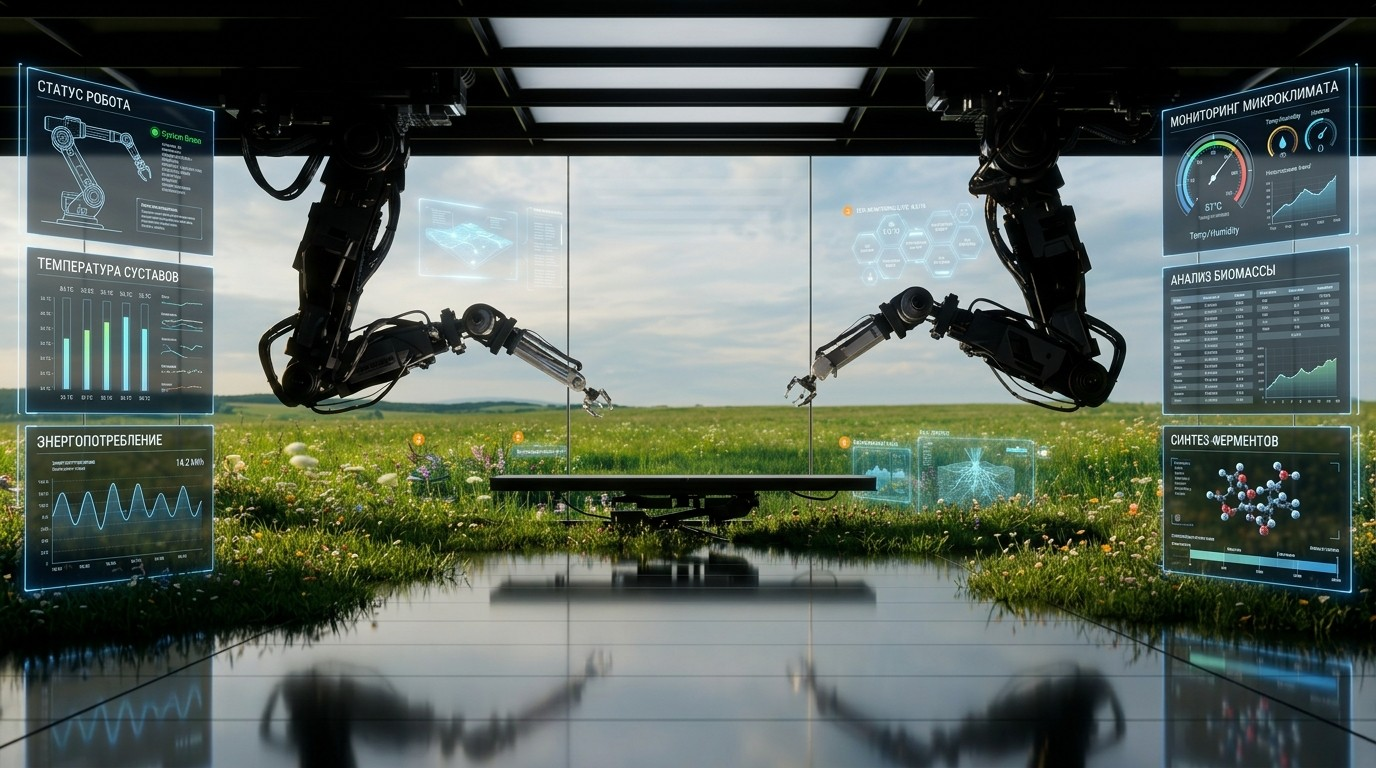
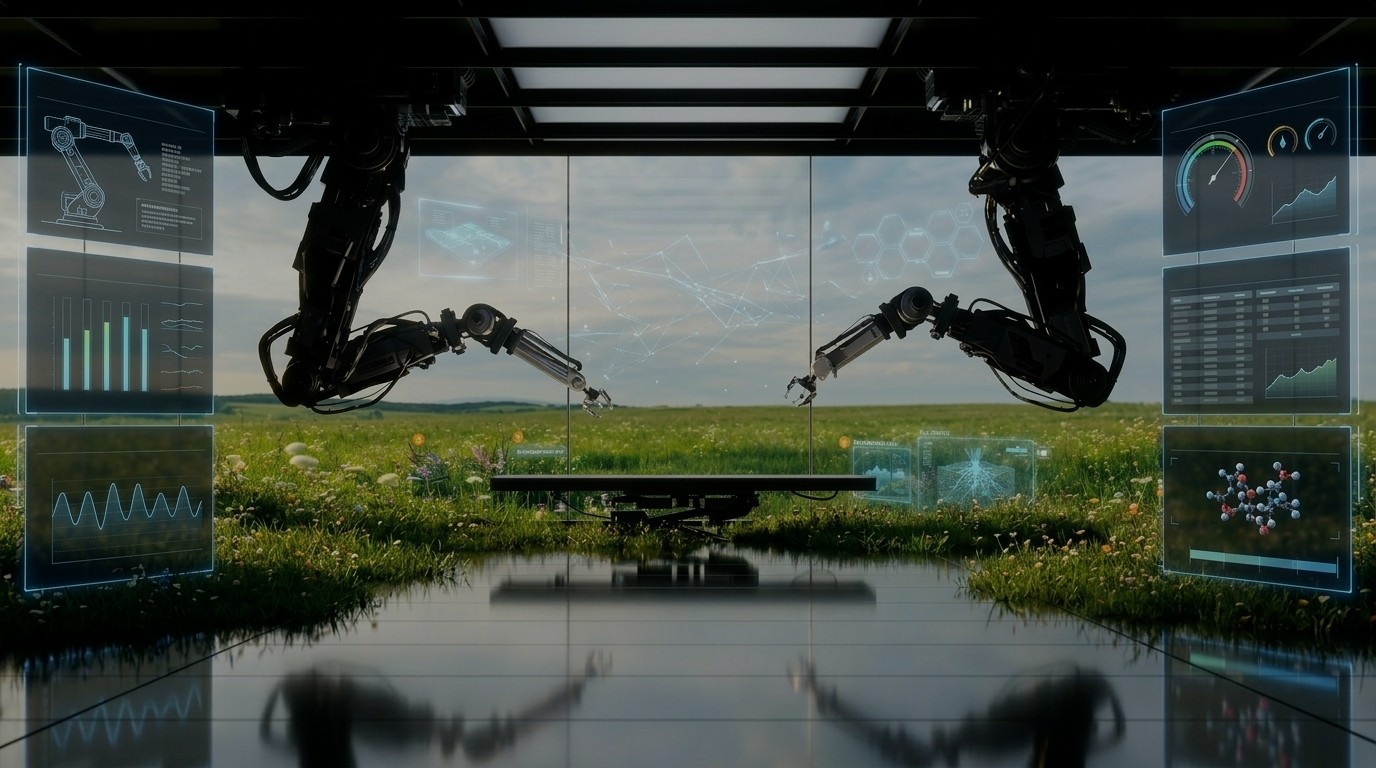
feat: new robot-arm bg + floating 3D sphere next to header
- diagram-bg.jpg: cleaner robot arms scene (no text overlays)
- sphere-3d.png: glass sphere with mechanical interior
- Header: flex row — text left, sphere right (220px, float + glow animation)
- globals.css: sphere-float (6s) and sphere-glow (3s) keyframes

diff --git a/components/sections/Examples.tsx b/components/sections/Examples.tsx
@@ -479,13 +479,40 @@ export default function Examples() {
       <div className="max-w-6xl mx-auto">
 
         {/* HEADER */}
-        <motion.div className="mb-10"
-          initial={{ opacity: 0, y: 20 }} whileInView={{ opacity: 1, y: 0 }}
-          viewport={{ once: true, amount: 0.3 }} transition={{ duration: 0.6 }}>
-          <p className="eyebrow mb-3" style={{ color: C.crimson }}>Архитектура системы</p>
-          <h2 className="h2 mb-3" style={{ color: C.espresso }}>Как это работает</h2>
-          <p className="font-inter font-light text-lg" style={{ color: C.taupe }}>Снаружи просто. Внутри — инженерия.</p>
-        </motion.div>
+        <div className="mb-10 flex items-center justify-between gap-6">
+          <motion.div
+            initial={{ opacity: 0, y: 20 }} whileInView={{ opacity: 1, y: 0 }}
+            viewport={{ once: true, amount: 0.3 }} transition={{ duration: 0.6 }}>
+            <p className="eyebrow mb-3" style={{ color: C.crimson }}>Архитектура системы</p>
+            <h2 className="h2 mb-3" style={{ color: C.espresso }}>Как это работает</h2>
+            <p className="font-inter font-light text-lg" style={{ color: C.taupe }}>Снаружи просто. Внутри — инженерия.</p>
+          </motion.div>
+
+          {/* Floating 3D sphere */}
+          <motion.div
+            className="hidden md:block flex-shrink-0"
+            initial={{ opacity: 0, y: 30, scale: 0.85 }}
+            whileInView={{ opacity: 1, y: 0, scale: 1 }}
+            viewport={{ once: true, amount: 0.3 }}
+            transition={{ duration: 0.9, ease: [0.22, 1, 0.36, 1] }}
+            style={{ width: 220, height: 220, position: "relative" }}>
+            {/* Glow halo */}
+            <div className="sphere-glow" style={{
+              position: "absolute", inset: "15%",
+              background: "radial-gradient(circle, rgba(196,18,48,0.22) 0%, rgba(210,182,138,0.1) 55%, transparent 80%)",
+              borderRadius: "50%",
+              filter: "blur(18px)",
+            }} />
+            <div className="sphere-float" style={{ width: "100%", height: "100%" }}>
+              <img
+                src="/images/sphere-3d.png"
+                alt="AI система — 3D визуализация"
+                style={{ width: "100%", height: "100%", objectFit: "contain",
+                  filter: "drop-shadow(0 12px 40px rgba(196,18,48,0.18)) drop-shadow(0 2px 8px rgba(0,0,0,0.12))" }}
+              />
+            </div>
+          </motion.div>
+        </div>
 
         {/* LEVEL SWITCHER */}
         <div className="flex gap-2 mb-8">

diff --git a/app/globals.css b/app/globals.css
@@ -20,6 +20,19 @@
   --font-inter: var(--font-inter-var), sans-serif;
 }
 
+/* Floating sphere animations */
+@keyframes sphere-float {
+  0%, 100% { transform: translateY(0px) rotate(0deg); }
+  33%       { transform: translateY(-10px) rotate(1deg); }
+  66%       { transform: translateY(-6px) rotate(-0.5deg); }
+}
+@keyframes sphere-glow {
+  0%, 100% { opacity: 0.5; transform: scale(1); }
+  50%       { opacity: 0.85; transform: scale(1.08); }
+}
+.sphere-float { animation: sphere-float 6s ease-in-out infinite; }
+.sphere-glow  { animation: sphere-glow 3s ease-in-out infinite; }
+
 /* Scene 6 (meditation) — recentre on mobile so the figure stays in frame */
 @media (max-width: 767px) {
   .scene-meditation {
